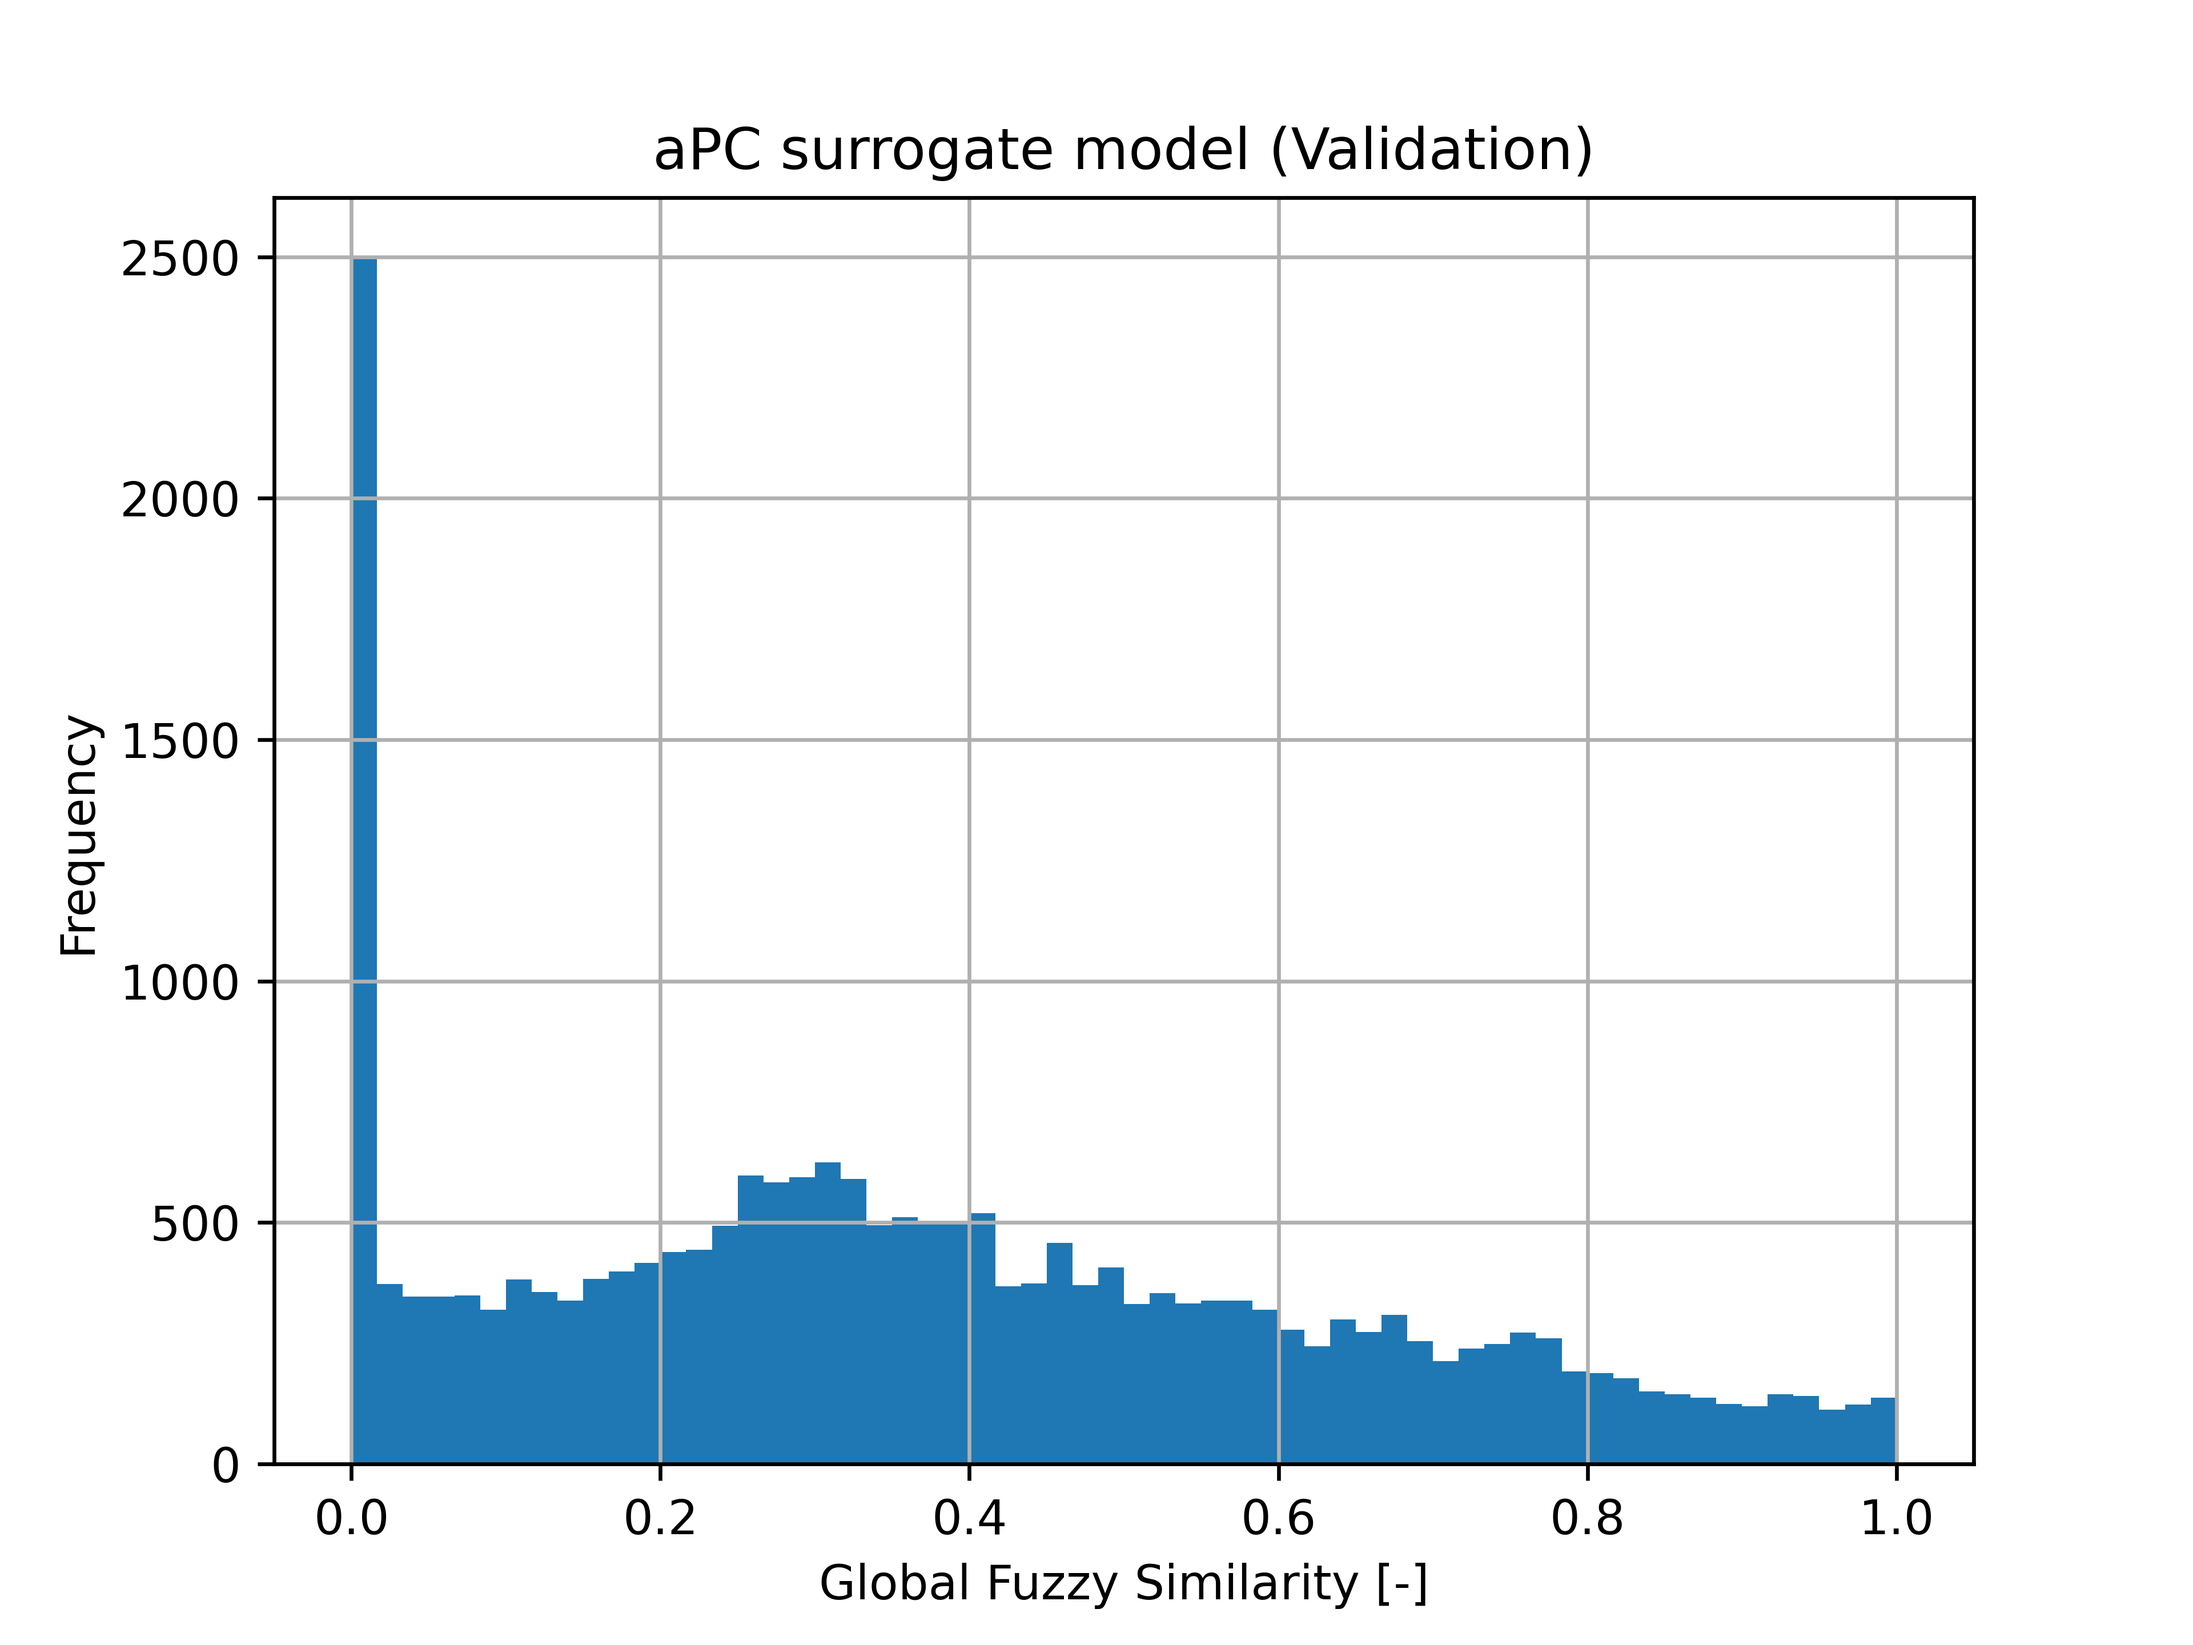
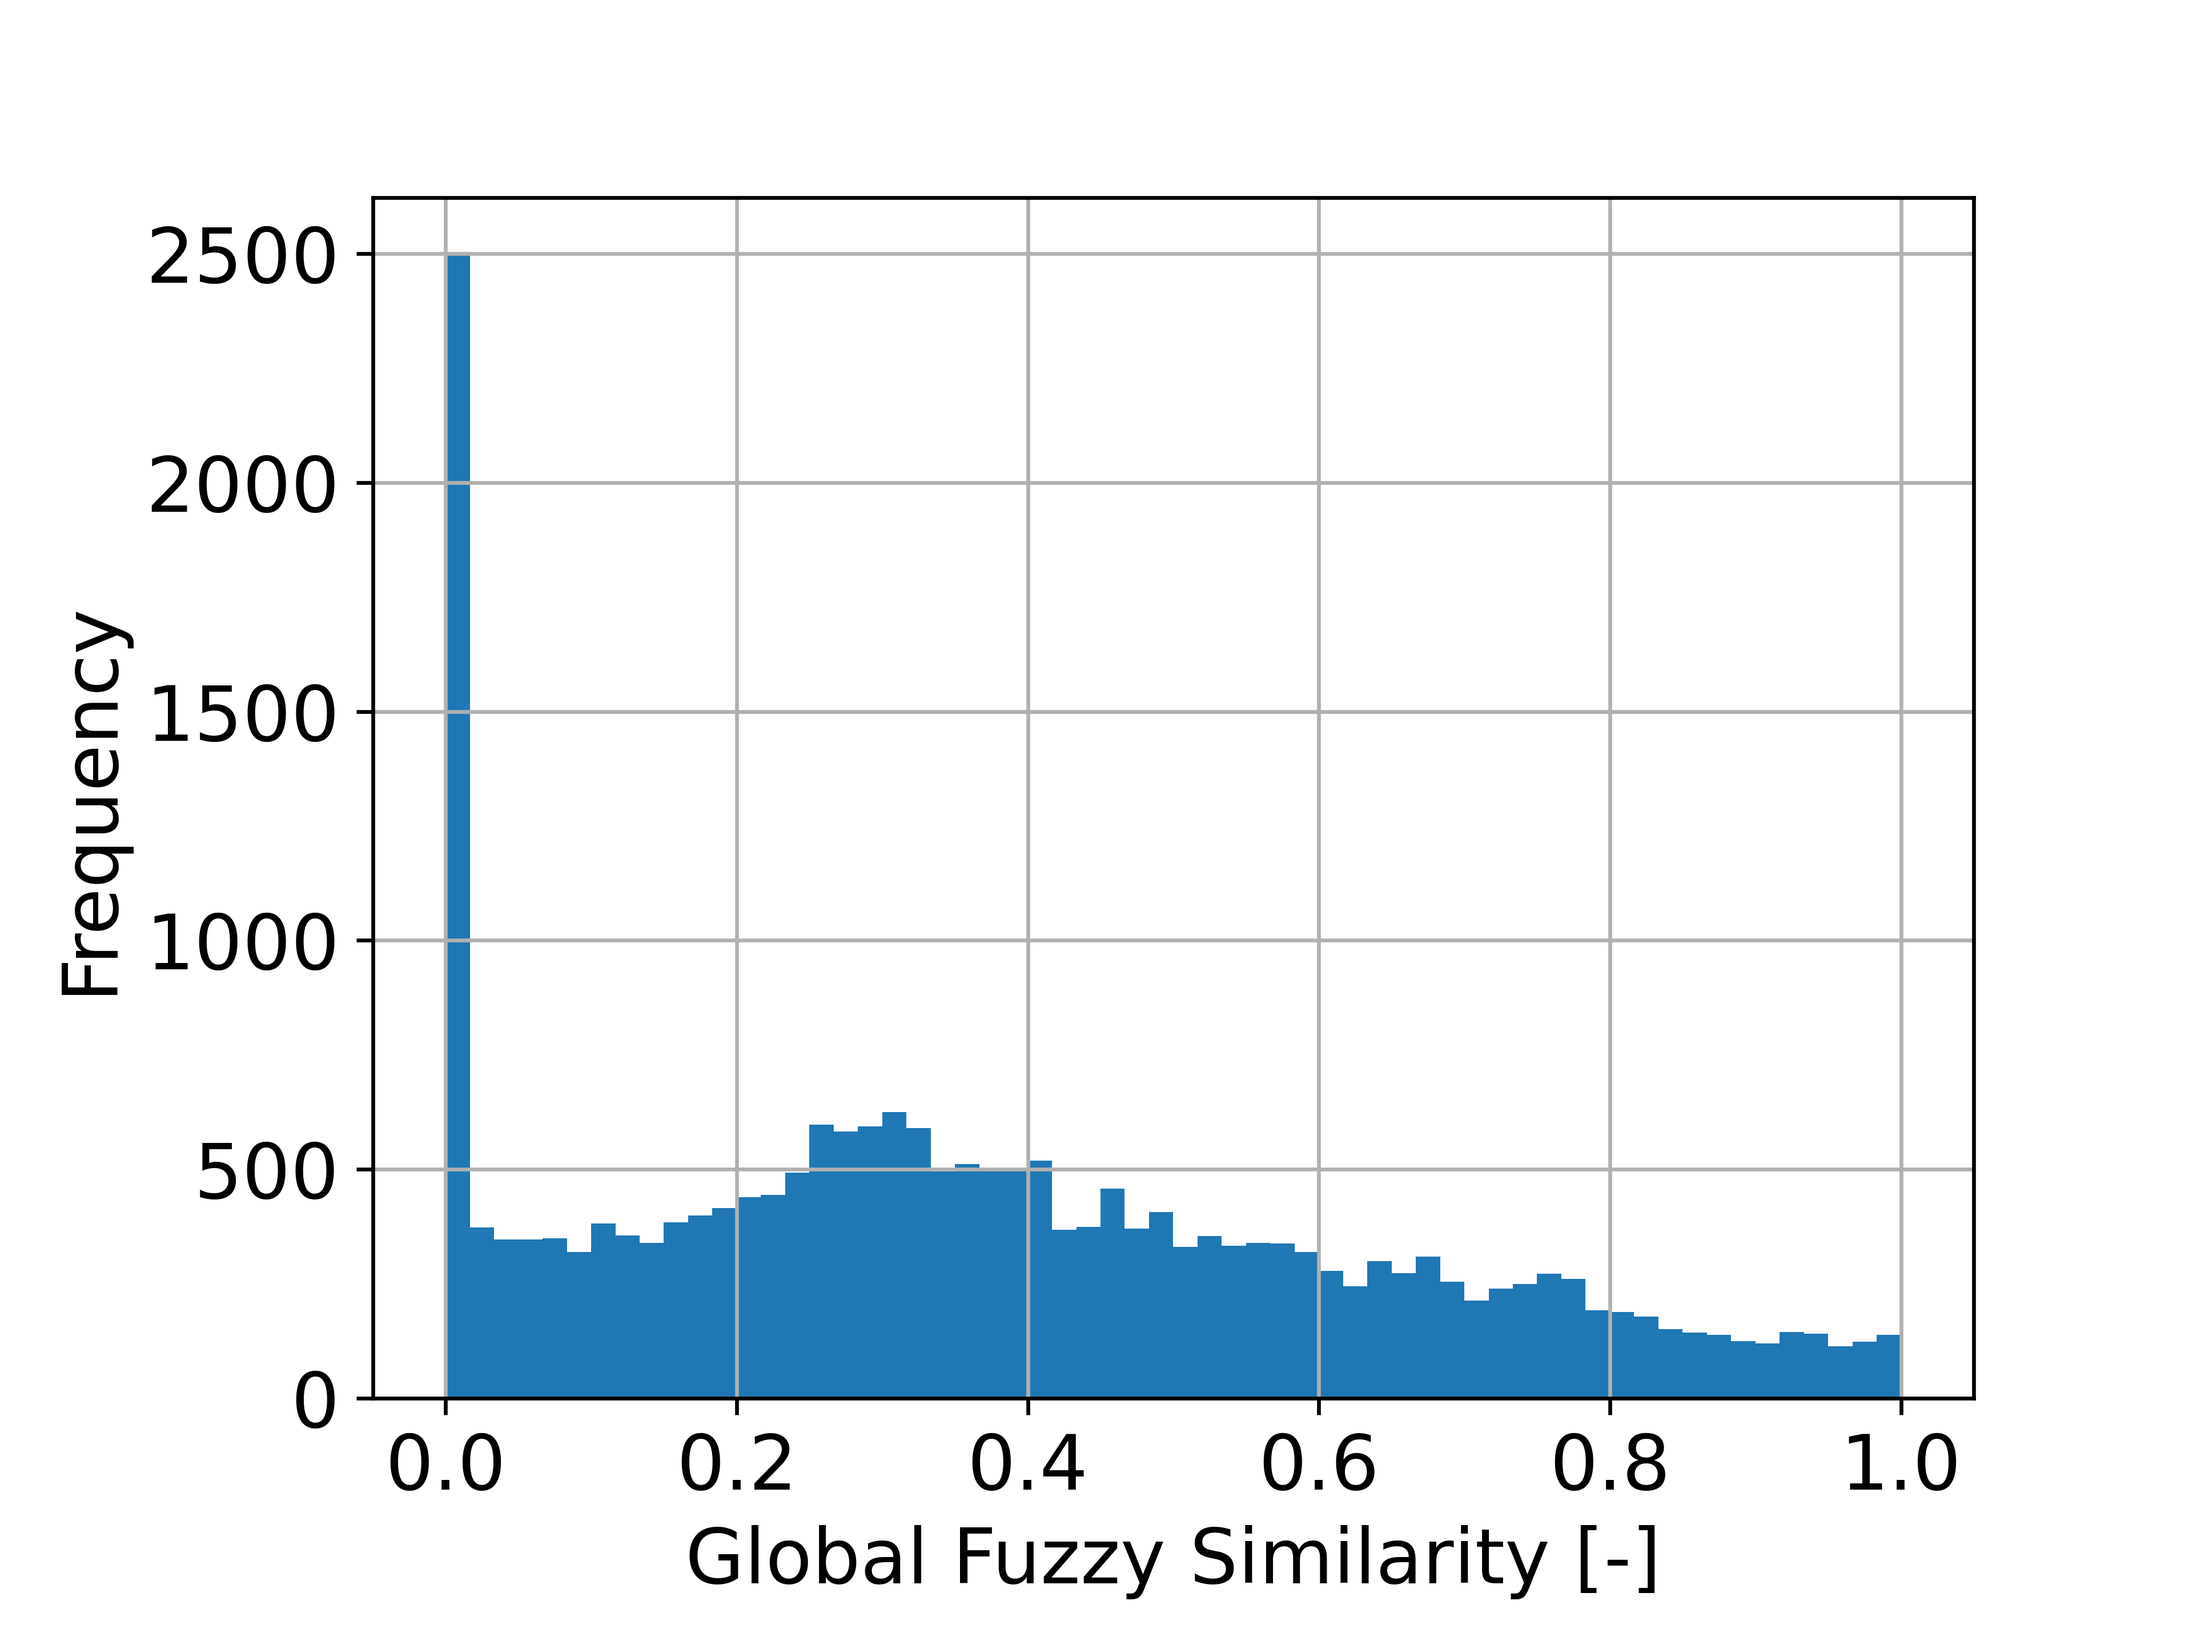
some changes in the plots

diff --git a/shallow_reservoirs_case/shallow_reservoirs_case.py b/shallow_reservoirs_case/shallow_reservoirs_case.py
@@ -36,11 +36,11 @@ path_B = str(dir / "raw_data/") + "/" + data_B
 map_A = mo.SpatialField(name_map_A, pd.read_csv(path_A, skip_blank_lines=True), attribute=attribute, crs=crs,
                         project_dir=dir, nodatavalue=nodatavalue, res=res)
 _arrayA = map_A.norm_array()
-out_A = str(dir / "raster/") + "/" + name_map_A + ".tif"
+out_A = str(dir / "rasters/") + "/" + name_map_A + ".tif"
 map_A.array2raster(_arrayA, out_A)
 
 map_B = mo.SpatialField(name_map_B, pd.read_csv(path_B, skip_blank_lines=True), attribute=attribute, crs=crs,
                         project_dir=dir, nodatavalue=nodatavalue, res=res)
 _arrayB = map_A.norm_array()
-out_B = str(dir / "raster/") + "/" + name_map_B + ".tif"
+out_B = str(dir / "rasters/") + "/" + name_map_B + ".tif"
 map_B.array2raster(_arrayB, out_B)

diff --git a/plotter.py b/plotter.py
@@ -10,16 +10,17 @@ class RasterDataPlotter:
         self.file = file
         self.path = path
 
-    def make_hist(self, legendx, legendy, title, outputpath):
-
+    def make_hist(self, legendx, legendy, title, fontsize, outputpath):
+        plt.rcParams.update({'font.size': fontsize})
         with rio.open(self.path) as src:
             raster_np = src.read(1, masked=True)
         fig, ax = plt.subplots()
         ax.hist(raster_np[~raster_np.mask], bins=60)
         plt.xlabel(legendx)
         plt.ylabel(legendy)
-        plt.title(title)
+        #plt.title(title)
         plt.grid(True)
+        plt.subplots_adjust(left=0.17, bottom=0.15)
         plt.savefig(outputpath, dpi=600)
         plt.clf()
 

diff --git a/salzach_case/performance_salzach.py b/salzach_case/performance_salzach.py
@@ -26,5 +26,5 @@ for file in list_files:
     path_raster = str(current_dir / 'rasters') + '/' + file + '.asc'
     outputpath = str(current_dir / 'analysis') + '/' + 'hist_' + file + '.png'
     raster = plotter.RasterDataPlotter(file, path_raster)
-    raster.make_hist(legendx, legendy, list_titles[i], outputpath)
+    raster.make_hist(legendx, legendy, list_titles[i], fontsize=15, outputpath=outputpath)
     i += 1

diff --git a/shallow_reservoirs_case/performance_shallow_reservoirs.py b/shallow_reservoirs_case/performance_shallow_reservoirs.py
@@ -17,5 +17,5 @@ for file in list_files:
     path_raster = str(current_dir / 'rasters') + '/' + file + '.asc'
     outputpath = str(current_dir / 'analysis') + '/' + 'hist_' + file + '.png'
     raster = plotter.RasterDataPlotter(file, path_raster)
-    raster.make_hist(legendx, legendy, list_titles[i], outputpath)
+    raster.make_hist(legendx, legendy, list_titles[i], fontsize=17, outputpath=outputpath)
     i += 1
